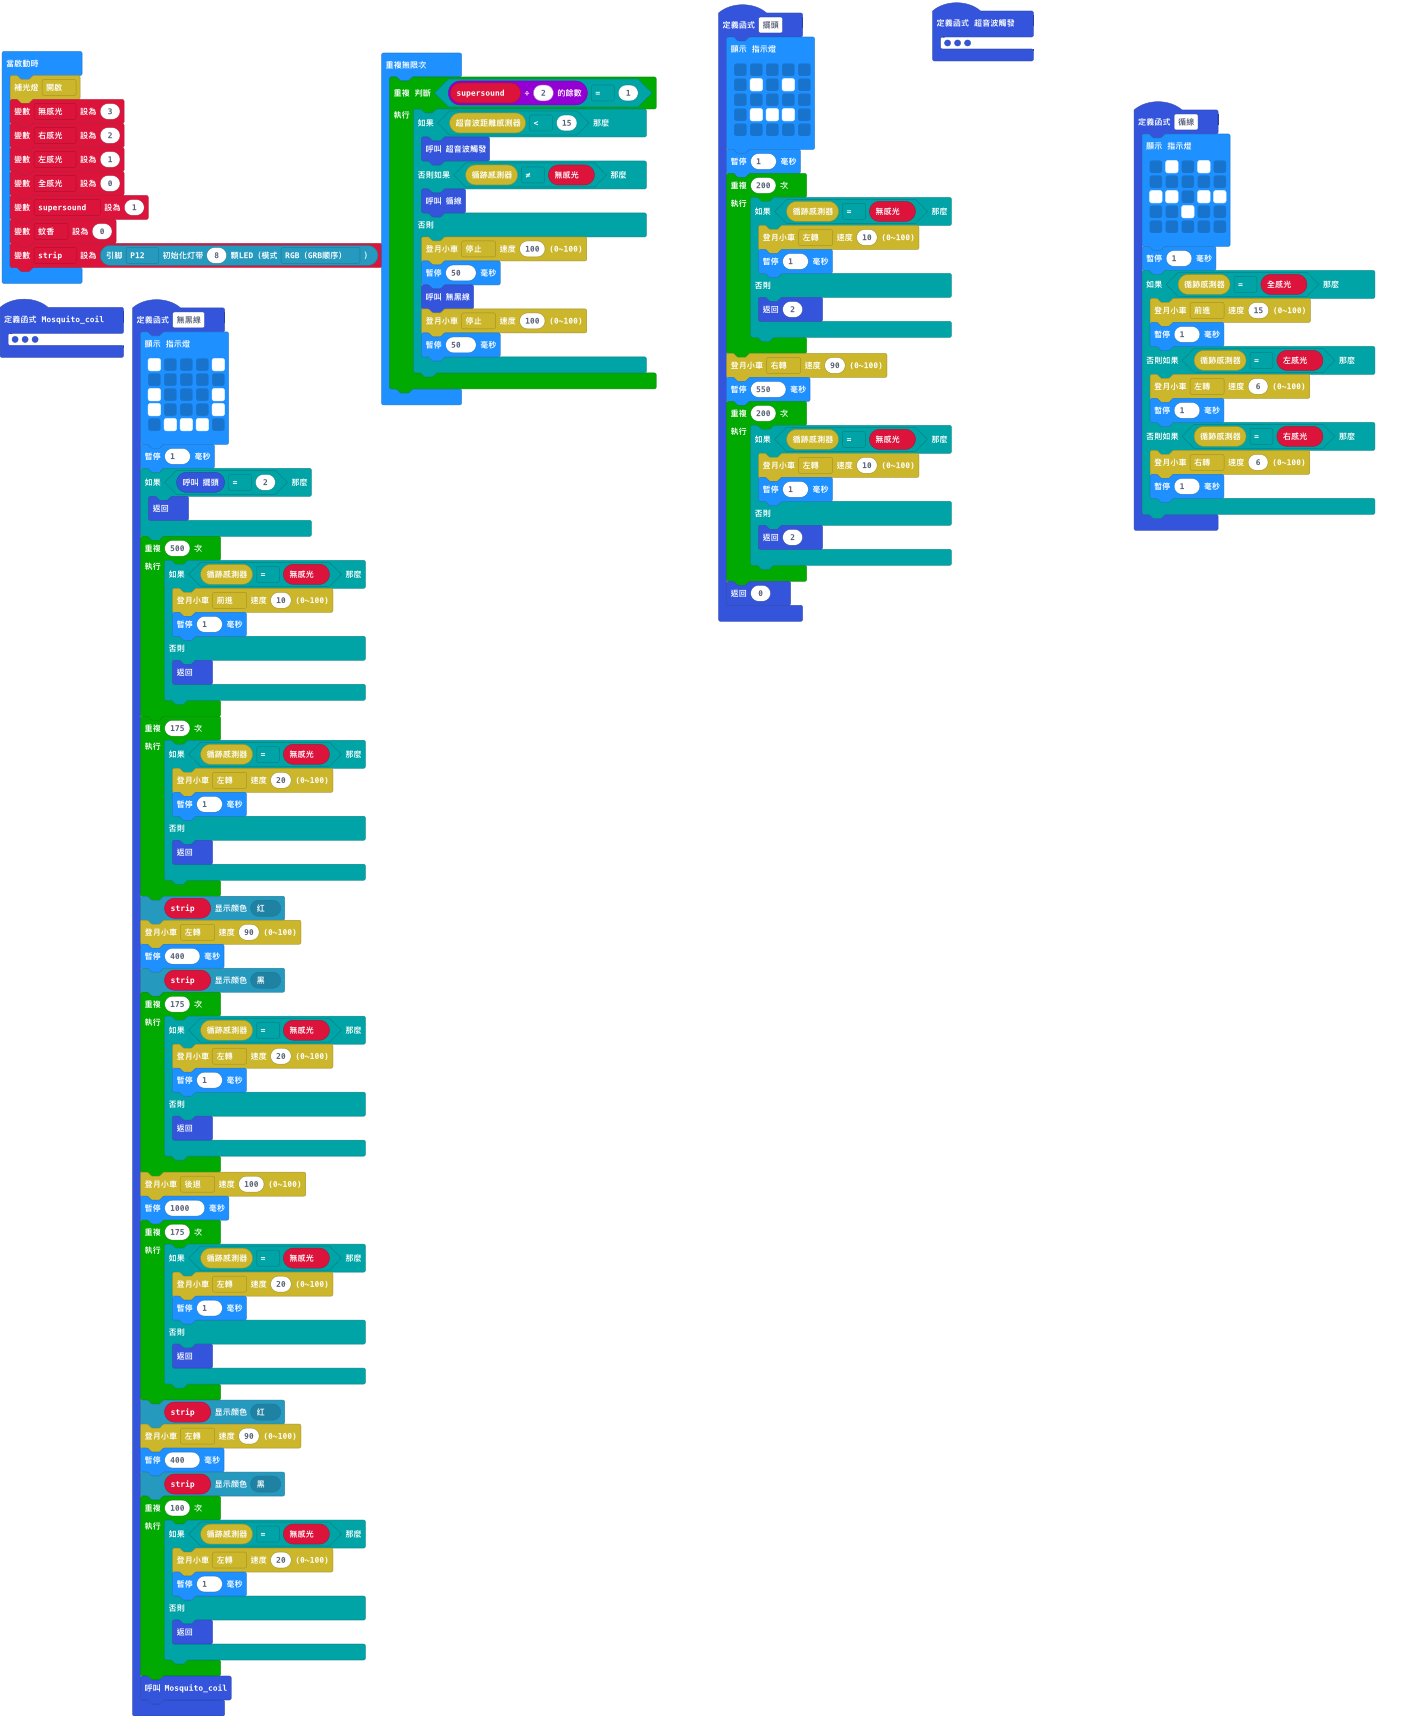
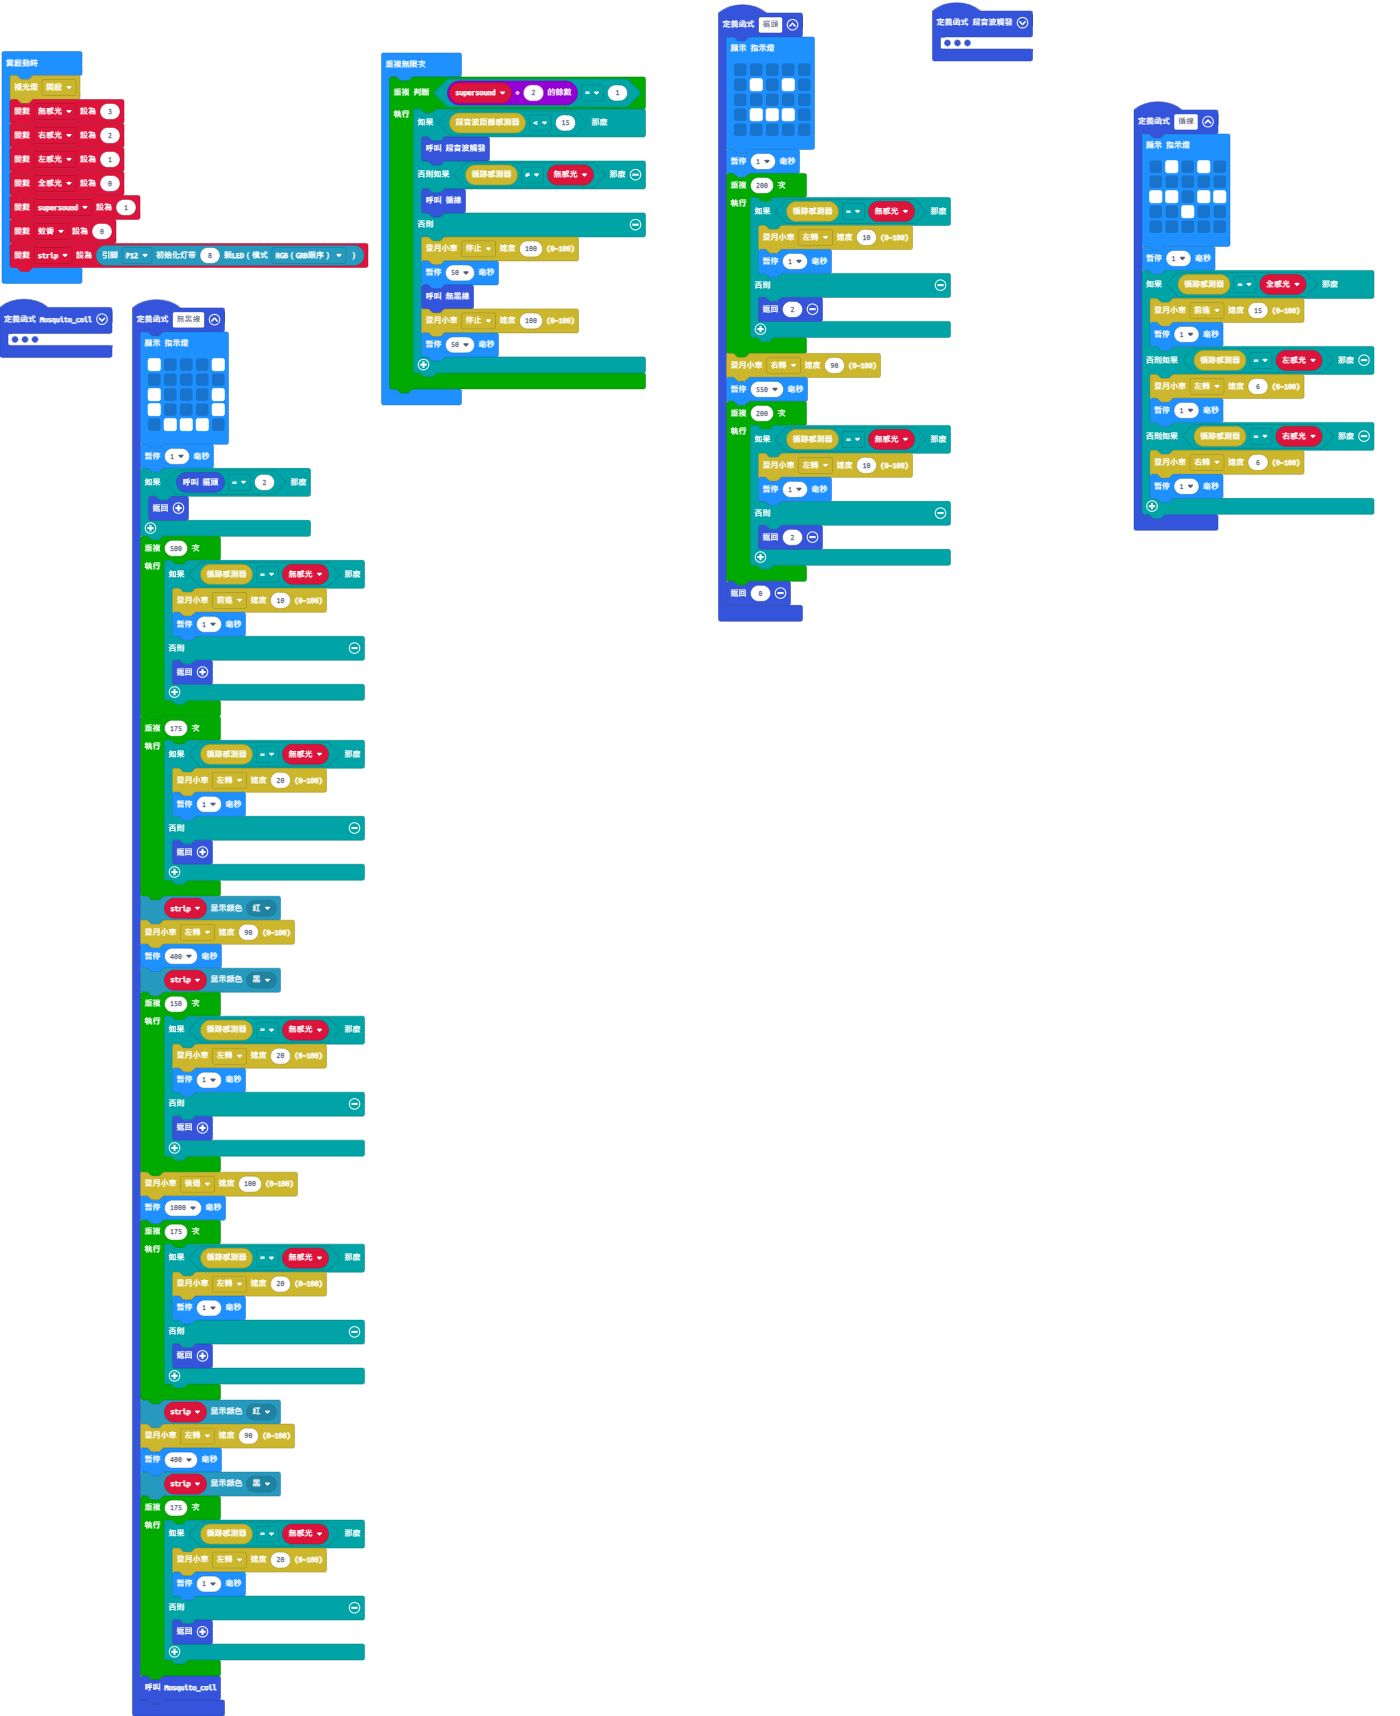
更新 main.blocks, main.ts

diff --git a/main.ts b/main.ts
@@ -126,7 +126,7 @@ function 無黑線 () {
     mooncar.MoonCarGo(mooncar.Direction.direct3, 90)
     basic.pause(400)
     strip.showColor(neopixel.colors(NeoPixelColors.Black))
-    for (let index = 0; index < 175; index++) {
+    for (let index = 0; index < 150; index++) {
         if (mooncar.LineFollowerSensor() == 無感光) {
             mooncar.MoonCarGo(mooncar.Direction.direct3, 20)
             basic.pause(1)
@@ -148,7 +148,7 @@ function 無黑線 () {
     mooncar.MoonCarGo(mooncar.Direction.direct3, 90)
     basic.pause(400)
     strip.showColor(neopixel.colors(NeoPixelColors.Black))
-    for (let index = 0; index < 100; index++) {
+    for (let index = 0; index < 175; index++) {
         if (mooncar.LineFollowerSensor() == 無感光) {
             mooncar.MoonCarGo(mooncar.Direction.direct3, 20)
             basic.pause(1)
